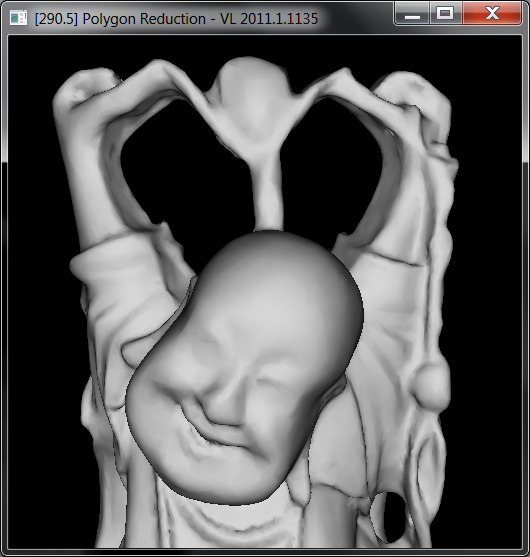
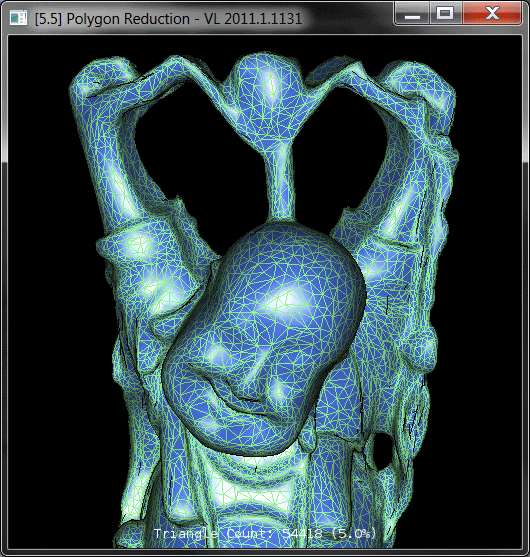
polygon simplification demo retouched

diff --git a/Visualization_Library_SDK/src/examples/Applets/App_PolygonReduction.cpp b/Visualization_Library_SDK/src/examples/Applets/App_PolygonReduction.cpp
@@ -40,11 +40,12 @@
 
 using namespace vl;
 
+static const int stages = 5;
+static const float ratios[] = { 1.0f, 0.5f, 0.20f, 0.05f, 0.01f };
+
 class App_PolygonReduction: public BaseDemo
 {
 public:
-  static const int stages = 5;
-
   App_PolygonReduction(const String& path): mFileName(path), mActiveActor(0) {}
 
   void initEvent()
@@ -91,6 +92,8 @@ public:
     mText->setFont( defFontManager()->acquireFont("/font/bitstream-vera/VeraMono.ttf", 10) );
     mText->setAlignment( AlignHCenter | AlignBottom );
     mText->setViewportAlignment( AlignHCenter | AlignBottom );
+    mText->setBackgroundEnabled(true);
+    mText->setBackgroundColor(vec4(0,0,0,0.5f));
     ref<Effect> effect = new Effect;
     effect->shader()->enable(EN_BLEND);
     mTextActor = sceneManager()->tree()->addActor(mText.get(), effect.get());
@@ -107,10 +110,9 @@ public:
     PolygonSimplifier simplifier;
     simplifier.setQuick(false);
     simplifier.setVerbose(true);
-    float ratio = 0.60f;
-    for(int i=1; i<stages; ++i, ratio *= 0.60f)
+    for(int i=1; i<stages; ++i)
     {
-      simplifier.simplify( ratio, mGeom[i].get() );
+      simplifier.simplify( ratios[i], mGeom[i].get() );
       Log::print("\n");
     }
 
@@ -128,7 +130,6 @@ public:
 
     /* position the camera to nicely see the scene */
     trackball()->adjustView( sceneManager(), vec3(0,0,1)/*direction*/, vec3(0,1,0)/*up*/, 0.75f/*bias*/ );
-
   }
 
   virtual void run()
@@ -139,7 +140,8 @@ public:
     sceneManager()->tree()->addActor( mActors[mActiveActor].get() );
     sceneManager()->tree()->addActor( mTextActor.get() );
     /* update label */
-    mText->setText( Say("Triangle Count: %n") << mGeom[mActiveActor]->drawCalls()->at(0)->as<vl::DrawElementsUInt>()->indices()->size() / 3 );
+    float percent = 100.0f * mGeom[mActiveActor]->drawCalls()->at(0)->as<vl::DrawElementsUInt>()->indices()->size() / mGeom[0]->drawCalls()->at(0)->as<vl::DrawElementsUInt>()->indices()->size();
+    mText->setText( Say("Triangle Count: %n (%.1n%%)") << mGeom[mActiveActor]->drawCalls()->at(0)->as<vl::DrawElementsUInt>()->indices()->size() / 3 << percent );
   }
 
   void fileDroppedEvent(const std::vector<vl::String>& files)

diff --git a/Visualization_Library_SDK/src/vlGraphics/PolygonSimplifier.cpp b/Visualization_Library_SDK/src/vlGraphics/PolygonSimplifier.cpp
@@ -164,17 +164,17 @@ void PolygonSimplifier::simplify(int target_vertex_count, Geometry* geom)
 //-----------------------------------------------------------------------------
 void PolygonSimplifier::simplify(int target_vertex_count, std::vector<fvec3>& in_out_verts, std::vector<int>& in_out_tris)
 {
-  mSimplifiedVertices.clear();
-  mSimplifiedTriangles.clear();
-  mProtectedVerts.clear();
-  mTriangleLump.clear();
-  mVertexLump.clear();
-
   if (verbose())
     Log::print("PolygonSimplifier::simplify() starting ... \n");
 
   Time timer;
   timer.start();
+
+  mSimplifiedVertices.clear();
+  mSimplifiedTriangles.clear();
+  mProtectedVerts.clear();
+  mTriangleLump.clear();
+  mVertexLump.clear(); // mic fixme: this is the one taking time to clearup.
 
   // preallocate vertices and triangles in one chunk
   mTriangleLump.resize(in_out_tris.size()/3);
